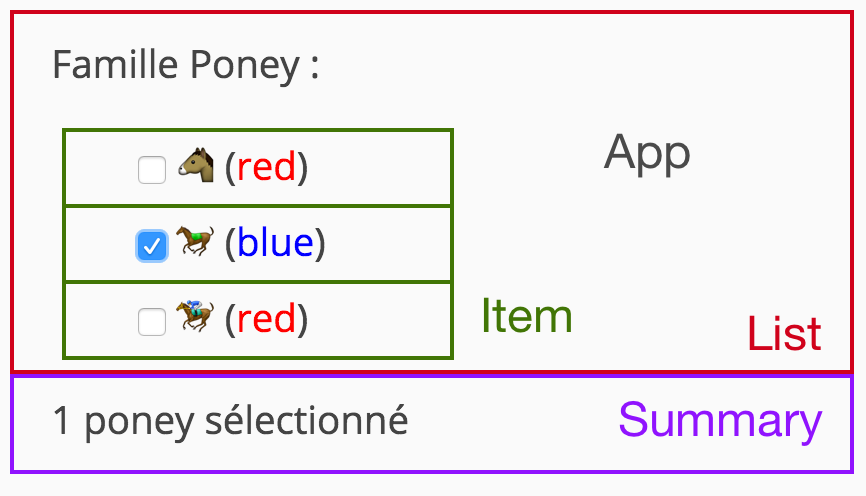
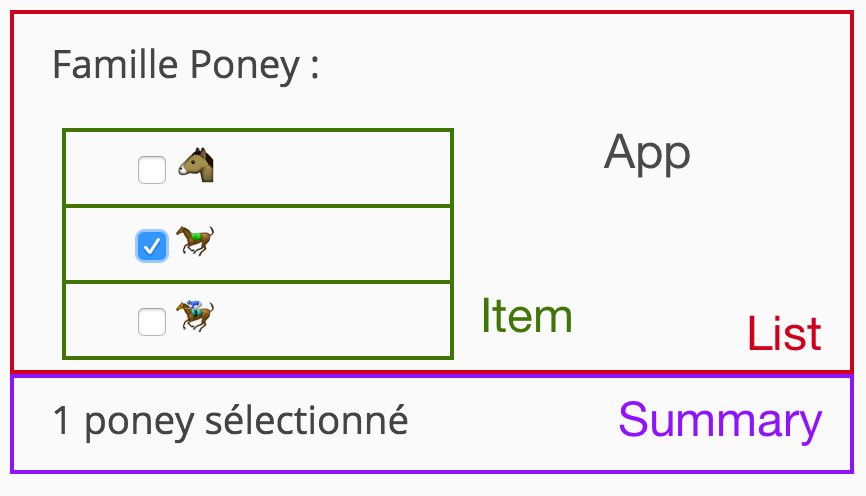
[stub] work on redux

Changed region(s): [[0.2494, 0.6048, 0.3741, 0.6956], [0.2494, 0.4536, 0.3741, 0.5444], [0.2494, 0.3024, 0.3741, 0.3629]]

diff --git a/_slides/6.redux.html b/_slides/6.redux.html
@@ -98,14 +98,13 @@
  * @param {Function} props.toggle
  */
 const Item = ({ poney, toggle }) =&gt; {
-    const c = poney.get('color');
     return (&lt;li&gt;
         &lt;input
             type="checkbox"
             defaultChecked={poney.get('checked')}
             onClick={() =&gt; toggle(poney)} /&gt;
         &lt;label&gt;
-            { poney.get('emoji') } ({c})
+            { poney.get('emoji') }
         &lt;/label&gt;
     &lt;/li&gt;);
 };
@@ -161,6 +160,39 @@ const App = (props) => (&lt;div&gt;
         <div class="col-6">
             <div class="content">
                 <h2 class="sub-head">Redux</h2>
+                <h1>Créer les actions</h1>
+
+                <div class="small u-margin-top">
+                    <b>Exemple</b>
+                    <div class="js-redux-example1"></div>
+                </div>
+            </div>
+        </div>
+        <div class="col-6 max">
+
+            <div class="fragment current-visible" data-fragment-index="0">
+                <img class="no-border" src="media/redux_action.png" alt="">
+            </div>
+
+            <pre class="full fragment current-visible" data-fragment-index="1">
+                <code class="full language-jsx">
+const togglePoney = (poney) => {
+    return {
+        type: 'TOGGLE_PONEY',
+        poney,
+    };
+};
+                </code>
+            </pre>
+        </div>
+
+    </section>
+
+    <section class="slide">
+
+        <div class="col-6">
+            <div class="content">
+                <h2 class="sub-head">Redux</h2>
                 <h1>Créer un reducer</h1>
 
                 <div class="small u-margin-top">
@@ -174,7 +206,7 @@ const App = (props) => (&lt;div&gt;
 
             <div class="content text-center fragment current-visible"
                 data-fragment-index="0">
-                <img class="no-border" src="media/redux_reducer_store.png" alt="">
+                <img class="no-border" src="media/redux_reducer.png" alt="">
                 <p>Reducer: (state, action) ⟼ state</p>
             </div>
 
@@ -186,13 +218,15 @@ const App = (props) => (&lt;div&gt;
 
             <pre class="full fragment current-visible" data-fragment-index="2">
                 <code class="full language-jsx">
+import { Map } from 'immutable';
+
 /**
  * @param  {Object}  state
  * @param  {Object} action
  *
  * @return {Object}         New state
  */
-const reducer = (state, action) => {
+const reducer = (state = Map(), action) => {
     switch(action.type) {
         ...
         default:
@@ -205,10 +239,12 @@ const reducer = (state, action) => {
 
             <pre class="full fragment current-visible" data-fragment-index="3">
                 <code class="full language-jsx">
-const reducer = (state, action) => {
+import { Map, fromJS } from 'immutable';
+
+const reducer = (state = Map(), action) => {
     switch(action.type) {
         case 'INIT':
-            return Immutable.fromJS(action.state);
+            return fromJS(action.state);
             break;
         default:
             return state;
@@ -219,6 +255,54 @@ const reducer = (state, action) => {
             </pre>
 
             <pre class="full fragment current-visible" data-fragment-index="4">
+                <code class="full language-jsx">
+import { Map, fromJS } from 'immutable';
+
+const reducer = (state = Map(), action) => {
+    switch(action.type) {
+        ...
+        case 'TOGGLE_PONEY':
+            const poneyIndex = state
+                .get('poneys')
+                .findIndex((p) =>
+                    p.get('id') === action.poney.get('id')
+                );
+
+            return state.setIn(
+                ['poneys', poneyIndex, 'checked'],
+                !action.poney.checked
+            );
+            break;
+        ...
+    }
+};
+                </code>
+            </pre>
+        </div>
+
+    </section>
+
+    <section class="slide">
+
+        <div class="col-6">
+            <div class="content">
+                <h2 class="sub-head">Redux</h2>
+                <h1>Créer le store</h1>
+
+                <div class="small u-margin-top">
+                    <b>Exemple</b>
+                    <div class="js-redux-example2"></div>
+                </div>
+            </div>
+        </div>
+        <div class="col-6 max">
+
+            <div class="content text-center fragment current-visible"
+                data-fragment-index="0">
+                <img class="no-border" src="media/redux_store.png" alt="">
+            </div>
+
+            <pre class="full fragment current-visible" data-fragment-index="1">
                 <code class="full language-jsx">
 import { createStore } from 'redux';
 
@@ -238,38 +322,59 @@ store.dispatch({
                 </code>
             </pre>
 
-            <pre class="full fragment current-visible" data-fragment-index="5">
+            <div class="fragment current-visible" data-fragment-index="2">
+                <p class="text-center"><b>2 types de composants</b></p>
+                <table class="medium">
+                    <thead>
+                        <tr>
+                            <td></td>
+                            <td>Présentation</td>
+                            <td>Container</td>
+                        </tr>
+                    </thead>
+                    <tbody>
+                        <tr>
+                            <td>Pourquoi ?</td>
+                            <td>Vue</td>
+                            <td>Logique</td>
+                        </tr>
+                        <tr>
+                            <td>Redux ?</td>
+                            <td>Non</td>
+                            <td>Oui</td>
+                        </tr>
+                        <tr>
+                            <td>Data</td>
+                            <td>props</td>
+                            <td>Redux state</td>
+                        </tr>
+                    </tbody>
+                </table>
+            </div>
+
+            <pre class="full fragment current-visible" data-fragment-index="3">
                 <code class="full language-jsx">
-const reducer = (state, action) => {
-    switch(action.type) {
-        ...
-        case 'TOGGLE_PONEY':
-            const poneys = state.get('poneys');
+import { connect, Provider } from 'react-redux';
 
-            const poneyIndex = poneys
-                .findIndex((p) =>
-                    p.get('id') === action.poney.get('id')
-                );
-            const checked = poneys
-                .get(poneyIndex).get('checked');
+const mapStateToProps = (state) => ({
+    poneys: state.get('poneys'),
+});
 
-            const poney = poneys
-                .get(poneyIndex)
-                .set('checked', !checked);
+const AppContainer = connect(
+    mapStateToProps, //map store et props
+    { togglePoney }  //map actions et props, TODO
+)(App);
 
-            return state.update(
-                'poneys',
-                (poneys) => poneys.set(poneyIndex, poney)
-            );
-            break;
-        ...
-    }
-};
+ReactDOM.render(
+    &lt;Provider store={store}&gt;
+        &lt;AppContainer /&gt;
+    &lt;/Provider&gt;,
+    document.querySelector('.js-redux-example2')
+);
                 </code>
             </pre>
 
         </div>
-
-    </section>
+    <section>
 
 </section>

diff --git a/js/jsx/app.js b/js/jsx/app.js
@@ -1,7 +1,5 @@
 'use strict';
 
-var _typeof = typeof Symbol === "function" && typeof Symbol.iterator === "symbol" ? function (obj) { return typeof obj; } : function (obj) { return obj && typeof Symbol === "function" && obj.constructor === Symbol ? "symbol" : typeof obj; };
-
 var _createClass = function () { function defineProperties(target, props) { for (var i = 0; i < props.length; i++) { var descriptor = props[i]; descriptor.enumerable = descriptor.enumerable || false; descriptor.configurable = true; if ("value" in descriptor) descriptor.writable = true; Object.defineProperty(target, descriptor.key, descriptor); } } return function (Constructor, protoProps, staticProps) { if (protoProps) defineProperties(Constructor.prototype, protoProps); if (staticProps) defineProperties(Constructor, staticProps); return Constructor; }; }();
 
 function _classCallCheck(instance, Constructor) { if (!(instance instanceof Constructor)) { throw new TypeError("Cannot call a class as a function"); } }
@@ -338,27 +336,21 @@ var ItemRedux = function ItemRedux(_ref2) {
     var toggle = _ref2.toggle;
 
     var c = poney.get('color');
+    var random = Math.floor(Math.random() * 100000000);
     return React.createElement(
         'li',
         { className: 'mod-no-style' },
         React.createElement('input', {
             type: 'checkbox',
-            id: 'check-' + poney.get('id'),
+            id: random,
             defaultChecked: poney.get('checked'),
             onClick: function onClick() {
                 return toggle(poney);
             } }),
         React.createElement(
             'label',
-            { htmlFor: 'check-' + poney.get('id') },
-            poney.get('emoji'),
-            ' (',
-            React.createElement(
-                'span',
-                { style: { color: c } },
-                c
-            ),
-            ')'
+            { htmlFor: random },
+            poney.get('emoji')
         )
     );
 };
@@ -422,34 +414,21 @@ var togglePoney = function togglePoney(poney) {
 };
 
 var reducer = function reducer(state, action) {
-    var _ret = function () {
-        switch (action.type) {
-            case 'INIT':
-                return {
-                    v: Immutable.fromJS(action.state)
-                };
-                break;
-            case 'TOGGLE_PONEY':
+    switch (action.type) {
+        case 'INIT':
+            return Immutable.fromJS(action.state);
+            break;
+        case 'TOGGLE_PONEY':
 
-                var poneyIndex = state.get('poneys').findIndex(function (p) {
-                    return p.get('id') === action.poney.get('id');
-                }),
-                    checked = state.get('poneys').get(poneyIndex).get('checked');
+            var poneyIndex = state.get('poneys').findIndex(function (p) {
+                return p.get('id') === action.poney.get('id');
+            });
 
-                var poney = state.get('poneys').get(poneyIndex).set('checked', !checked);
-
-                return {
-                    v: state.update('poneys', function (poneys) {
-                        return poneys.set(poneyIndex, poney);
-                    })
-                };
-                break;
-            default:
-                break;
-        }
-    }();
-
-    if ((typeof _ret === 'undefined' ? 'undefined' : _typeof(_ret)) === "object") return _ret.v;
+            return state.setIn(['poneys', poneyIndex, 'checked'], !action.poney.checked);
+            break;
+        default:
+            break;
+    }
 };
 
 var store = Redux.createStore(reducer);

diff --git a/js/jsx/app.jsx b/js/jsx/app.jsx
@@ -208,15 +208,16 @@ const state = {
  */
 const ItemRedux = ({ poney, toggle }) => {
     const c = poney.get('color');
+    const random = Math.floor(Math.random() * 100000000);
     return (
         <li className="mod-no-style">
             <input
                 type="checkbox"
-                id={`check-${poney.get('id')}`}
+                id={random}
                 defaultChecked={poney.get('checked')}
                 onClick={() => toggle(poney)} />
-            <label htmlFor={`check-${poney.get('id')}`}>
-                {poney.get('emoji')} (<span style={{ color: c }}>{c}</span>)
+            <label htmlFor={random}>
+                {poney.get('emoji')}
             </label>
         </li>
     );
@@ -270,18 +271,13 @@ const reducer = (state, action) => {
 
             const poneyIndex = state
                 .get('poneys')
-                .findIndex((p) => p.get('id') === action.poney.get('id')),
-                checked = state.get('poneys').get(poneyIndex).get('checked');
+                .findIndex((p) => p.get('id') === action.poney.get('id'));
 
-            const poney = state.get('poneys')
-                .get(poneyIndex)
-                .set('checked', !checked);
-
-            return state.update(
-                'poneys',
-                (poneys) => poneys.set(poneyIndex, poney)
+            return state.setIn(
+                ['poneys', poneyIndex, 'checked'],
+                !action.poney.checked
             );
-            break;
+                break;
         default:
             break;
     }

diff --git a/css/custom.scss b/css/custom.scss
@@ -123,6 +123,9 @@ input {
         list-style: none;
     }
 
+.reveal .medium {
+    font-size: 0.8em;
+}
 .reveal .small {
     font-size: 0.6em;
 }
